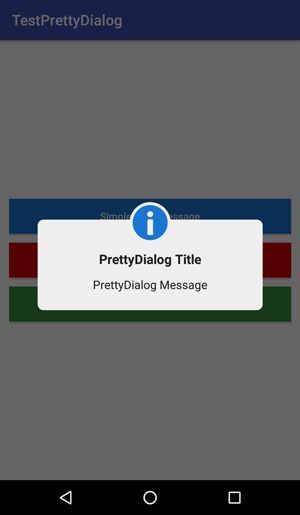
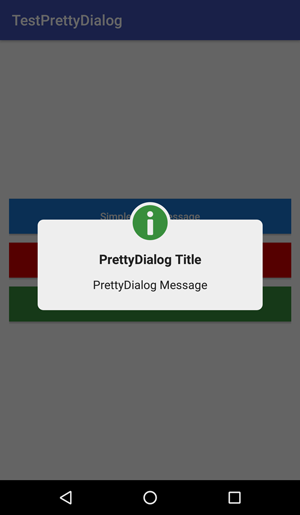
editing readme

Changed region(s): [[0.42, 0.3728, 0.57, 0.466]]

diff --git a/app/src/main/java/apps/mjn/testprettydialog/MainActivity.java b/app/src/main/java/apps/mjn/testprettydialog/MainActivity.java
@@ -38,7 +38,7 @@ public class MainActivity extends AppCompatActivity {
         dialog
                 .setIcon(
                         R.drawable.pdlg_icon_info,    // Icon resource
-                        R.color.pdlg_color_blue,      // Icon tint
+                        R.color.pdlg_color_green,      // Icon tint
                         new PrettyDialogCallback() {  // Icon OnClick listener
                             @Override
                             public void onClick() {
